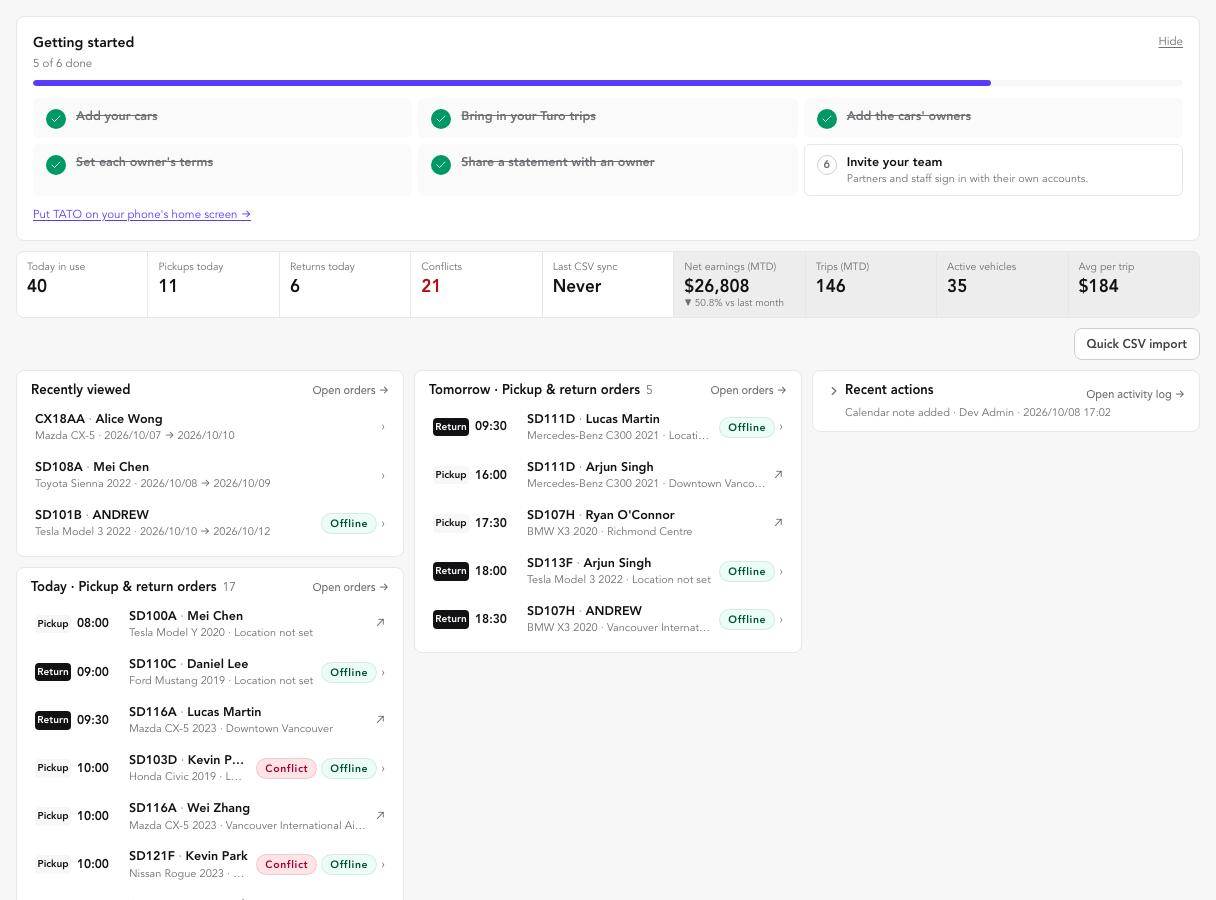
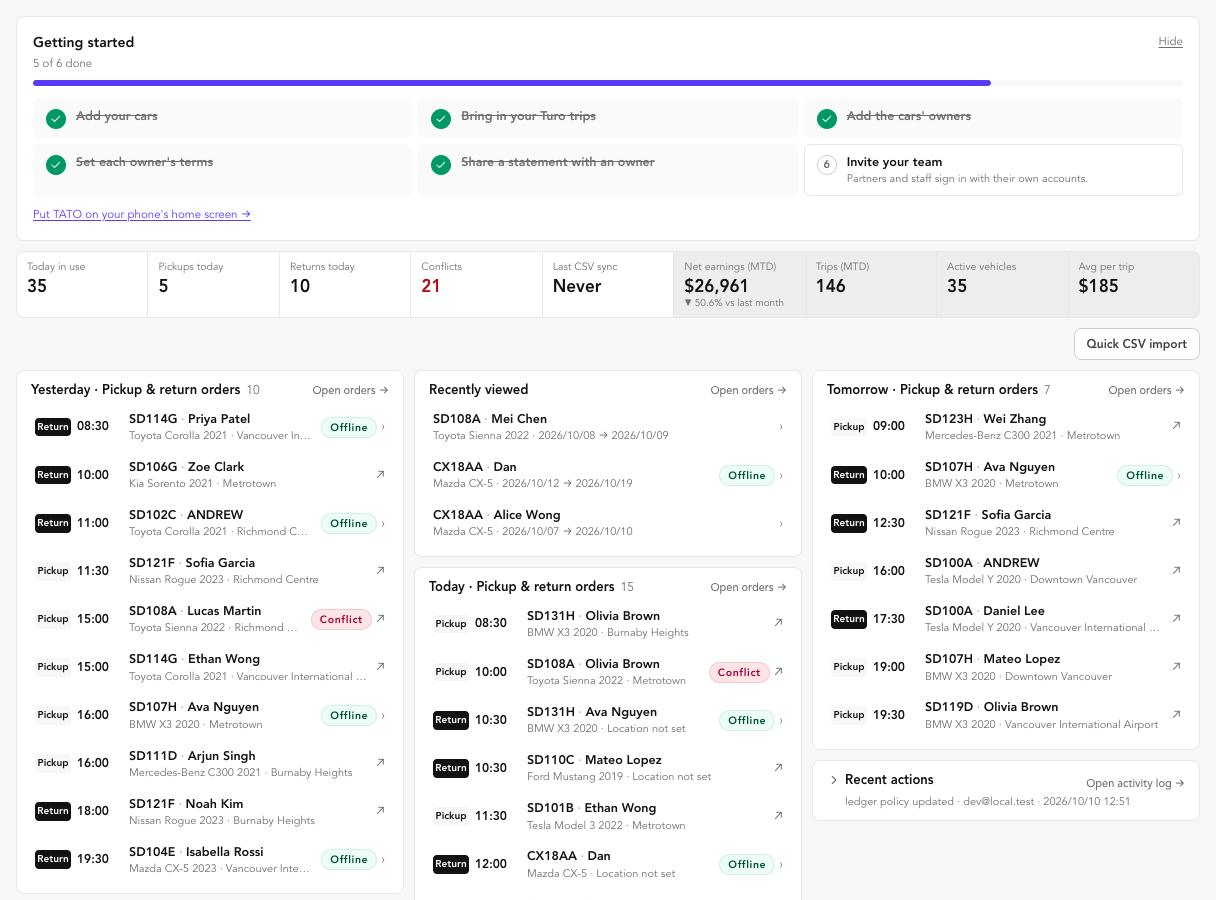
The dashboard shows yesterday's handovers in a column of their own (v1.78.0)
Yesterday's pickups and returns, in the same form as today's and
tomorrow's, as the left-hand column, so the three days read left to
right. Help text and picture updated; the screenshot script can use the
installed Chrome where Playwright's Chromium is missing.

diff --git a/app/(admin)/dashboard/page.tsx b/app/(admin)/dashboard/page.tsx
@@ -111,6 +111,12 @@ export default async function DashboardPage() {
   startOfTomorrow.setDate(startOfTomorrow.getDate() + 1);
   const endOfTomorrow = new Date(endOfDay);
   endOfTomorrow.setDate(endOfTomorrow.getDate() + 1);
+  // Yesterday the same way: what was handed over, for checking a return
+  // came back and a pickup went out.
+  const startOfYesterday = new Date(startOfDay);
+  startOfYesterday.setDate(startOfYesterday.getDate() - 1);
+  const endOfYesterday = new Date(endOfDay);
+  endOfYesterday.setDate(endOfYesterday.getDate() - 1);
 
   // Month boundaries for the new "This month" overview. We pull both
   // the current month and last month in a single query (one round
@@ -126,6 +132,7 @@ export default async function DashboardPage() {
     todayOrders,
     todayDayOrders,
     tomorrowDayOrders,
+    yesterdayDayOrders,
     conflictOrders,
     latestImport,
     latestLogs,
@@ -146,6 +153,7 @@ export default async function DashboardPage() {
     }),
     fetchDayOrders(workspace.id, startOfDay, endOfDay),
     fetchDayOrders(workspace.id, startOfTomorrow, endOfTomorrow),
+    fetchDayOrders(workspace.id, startOfYesterday, endOfYesterday),
     prisma.order.findMany({
       where: { workspaceId: workspace.id, isArchived: false, hasConflict: true },
       include: { vehicle: true },
@@ -185,6 +193,7 @@ export default async function DashboardPage() {
 
   const todayEvents = buildDayEvents(todayDayOrders, startOfDay, endOfDay);
   const tomorrowEvents = buildDayEvents(tomorrowDayOrders, startOfTomorrow, endOfTomorrow);
+  const yesterdayEvents = buildDayEvents(yesterdayDayOrders, startOfYesterday, endOfYesterday);
 
   const todaysRentals = todayOrders.length;
   const todaysPickups = todayOrders.filter((order) => order.pickupDatetime >= startOfDay).length;
@@ -509,7 +518,18 @@ export default async function DashboardPage() {
         <CsvQuickImportButton locale={locale} />
       </div>
 
+      {/* Three days left to right, as a calendar reads: yesterday's
+          handovers in a column of their own, today's under what was
+          opened last, tomorrow's with the activity log folded below. */}
       <OrderClickTracker className="grid items-start gap-2.5 lg:grid-cols-3">
+        {renderPanel(
+          `${dashboardMessages.yesterdayKicker} · ${dashboardMessages.yesterdayTitle}`,
+          yesterdayEvents.length,
+          { href: "/orders", label: dashboardMessages.openOrders },
+          yesterdayEvents.length === 0
+            ? emptyRow(dashboardMessages.yesterdayEmpty)
+            : yesterdayEvents.map(renderEvent),
+        )}
         <div className="flex min-w-0 flex-col gap-2.5">
           {renderPanel(
             dashboardMessages.recentTitle,
@@ -524,6 +544,7 @@ export default async function DashboardPage() {
             todayEvents.length === 0 ? emptyRow(dashboardMessages.todayEmpty) : todayEvents.map(renderEvent),
           )}
         </div>
+        <div className="flex min-w-0 flex-col gap-2.5">
         {renderPanel(
           `${dashboardMessages.tomorrowKicker} · ${dashboardMessages.tomorrowTitle}`,
           tomorrowEvents.length,
@@ -574,6 +595,7 @@ export default async function DashboardPage() {
                 ))}
           </div>
         </details>
+        </div>
       </OrderClickTracker>
     </div>
   );

diff --git a/app/(admin)/help/guides/zh.ts b/app/(admin)/help/guides/zh.ts
@@ -26,7 +26,7 @@ export const guides: Guide[] = [
         steps: [
           "顶部一排数字：今日在租、今日取车、今日还车。",
           "「冲突订单」是同一台车时间重叠的订单数，红色数字要优先处理，点日历里的红色订单条逐个看。",
-          "「今日 · 取车/还车订单」按时间列出今天每一次交接：黑色标签是还车，白色是取车，地点写在车型后面；点一行打开订单。下面还有「明日」的同样列表，提前一天安排送车和清洁。",
+          "「今日 · 取车/还车订单」按时间列出今天每一次交接：黑色标签是还车，白色是取车，地点写在车型后面；点一行打开订单。左边一列是「昨日」的同样列表，用来核对昨天的车有没有按时还回、送出；右边一列是「明日」，提前一天安排送车和清洁。",
           "「快速导入 CSV」直接选一份 Turo CSV 导入，和 CSV 导入页面是同一个功能。",
         ],
       },

diff --git a/app/(admin)/help/guides/en.ts b/app/(admin)/help/guides/en.ts
@@ -26,7 +26,7 @@ export const guides: Guide[] = [
         steps: [
           "The numbers at the top: Today in use, Pickups today, Returns today.",
           "Conflicts counts trips on one car that overlap. A red number comes first; find the red bars on the calendar.",
-          "The pickup & return list shows every handover today by time: a black tag is a return, a white one a pickup, with the place after the car. Click a row to open the trip. The same list for tomorrow sits below, so deliveries and cleaning can be planned a day ahead.",
+          "The pickup & return list shows every handover today by time: a black tag is a return, a white one a pickup, with the place after the car. Click a row to open the trip. Yesterday's list is the column on the left, for checking that yesterday's cars went out and came back; tomorrow's is on the right, so deliveries and cleaning can be planned a day ahead.",
           "Quick CSV import takes a Turo CSV right here; it is the same as the CSV Imports page.",
         ],
       },

diff --git a/lib/i18n/messages/dashboard.ts b/lib/i18n/messages/dashboard.ts
@@ -24,6 +24,9 @@ export const dashboardMessages = {
       tomorrowKicker: "Tomorrow",
       tomorrowTitle: "Pickup & return orders",
       tomorrowEmpty: "No pickups or returns scheduled for tomorrow.",
+      yesterdayKicker: "Yesterday",
+      yesterdayTitle: "Pickup & return orders",
+      yesterdayEmpty: "No pickups or returns yesterday.",
       event: {
         pickupBadge: "Pickup",
         returnBadge: "Return",
@@ -129,6 +132,9 @@ export const dashboardMessages = {
       tomorrowKicker: "明日",
       tomorrowTitle: "取车/还车订单",
       tomorrowEmpty: "明天没有取车或还车订单。",
+      yesterdayKicker: "昨日",
+      yesterdayTitle: "取车/还车订单",
+      yesterdayEmpty: "昨天没有取车或还车订单。",
       event: {
         pickupBadge: "取车",
         returnBadge: "还车",

diff --git a/scripts/capture-help-screenshots.ts b/scripts/capture-help-screenshots.ts
@@ -192,7 +192,9 @@ async function clipFor(page: Page, shot: (typeof SHOTS)[number], locale: Locale)
 }
 
 async function main() {
-  const browser = await chromium.launch();
+  // PW_CHANNEL=chrome uses the installed Google Chrome instead of the
+  // Chromium build Playwright downloads, for a machine without one.
+  const browser = await chromium.launch(process.env.PW_CHANNEL ? { channel: process.env.PW_CHANNEL } : {});
   const context = await browser.newContext({ viewport: VIEWPORT, deviceScaleFactor: 1 });
   const page: Page = await context.newPage();
   await page.goto(`${BASE}/login`);

diff --git a/app/(admin)/help/shots/operations.ts b/app/(admin)/help/shots/operations.ts
@@ -9,7 +9,7 @@ export const operationsShots: Shot[] = [
     marks: [
       { step: 1, target: { text: { zh: "今日在租", en: "Today in use" } } },
       { step: 2, target: { text: { zh: "冲突订单", en: "Conflicts" } } },
-      { step: 3, target: { text: { zh: "取车/还车订单", en: "Pickup & return orders" }, nth: 0 } },
+      { step: 3, target: { text: { zh: "今日 · 取车/还车订单", en: "Today · Pickup & return orders" } } },
       { step: 4, target: { role: "button", name: { zh: "快速导入 CSV", en: "Quick CSV import" } } },
     ],
   },

diff --git a/lib/i18n/zh-hant/dashboard.ts b/lib/i18n/zh-hant/dashboard.ts
@@ -22,6 +22,9 @@ export const dashboardMessages = {
       tomorrowKicker: "明日",
       tomorrowTitle: "取車/還車訂單",
       tomorrowEmpty: "明天沒有取車或還車訂單。",
+      yesterdayKicker: "昨日",
+      yesterdayTitle: "取車/還車訂單",
+      yesterdayEmpty: "昨天沒有取車或還車訂單。",
       event: {
         pickupBadge: "取車",
         returnBadge: "還車",

diff --git a/CHANGELOG.md b/CHANGELOG.md
@@ -1,5 +1,20 @@
 # Changelog
 
+## v1.78.0 - 2026-10-19
+
+### The dashboard shows yesterday's handovers in a column of their own
+
+- "Yesterday · Pickup & return orders" is the left-hand column, in the
+  same form as today's and tomorrow's: every pickup and return by time,
+  the return or pickup tag, the place, the offline and conflict marks,
+  a click to open the trip. It is for checking that yesterday's cars went
+  out and came back.
+- The three days now read left to right: yesterday; recently viewed and
+  today; tomorrow with the activity log folded under it.
+- Help: the dashboard section mentions the new column and its picture is
+  retaken; the help screenshot script can use the installed Google
+  Chrome (PW_CHANNEL=chrome) where Playwright's own Chromium is missing.
+
 ## v1.77.0 - 2026-10-19
 
 ### The AI answers "where is the car?" from the trip's recorded spot
